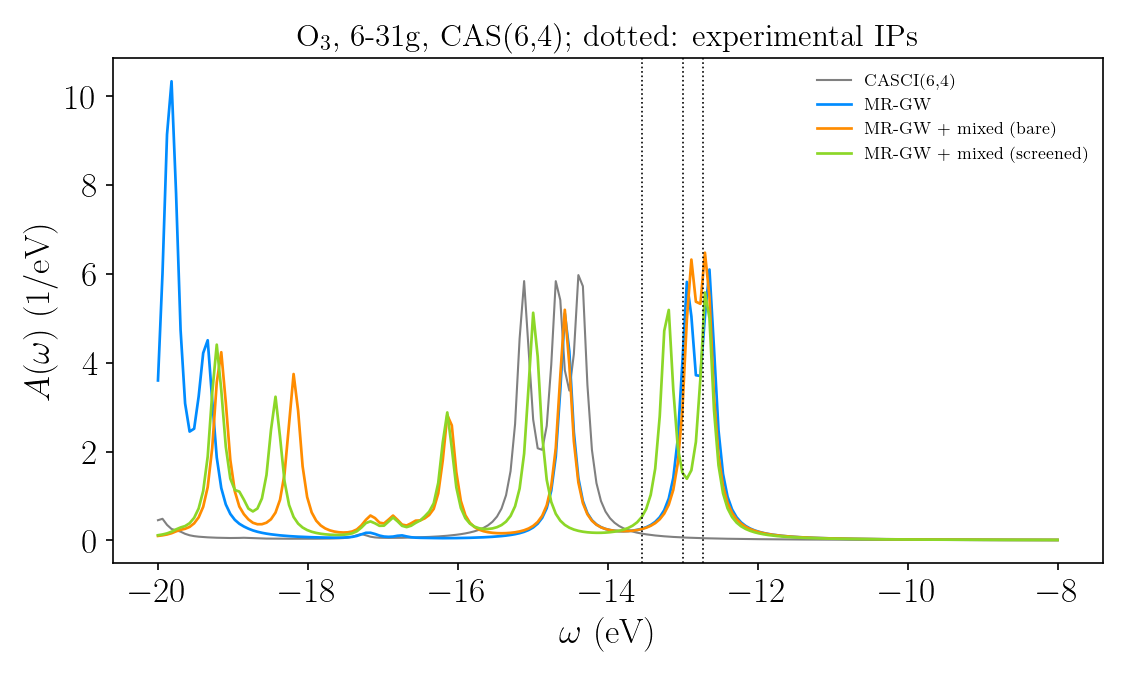
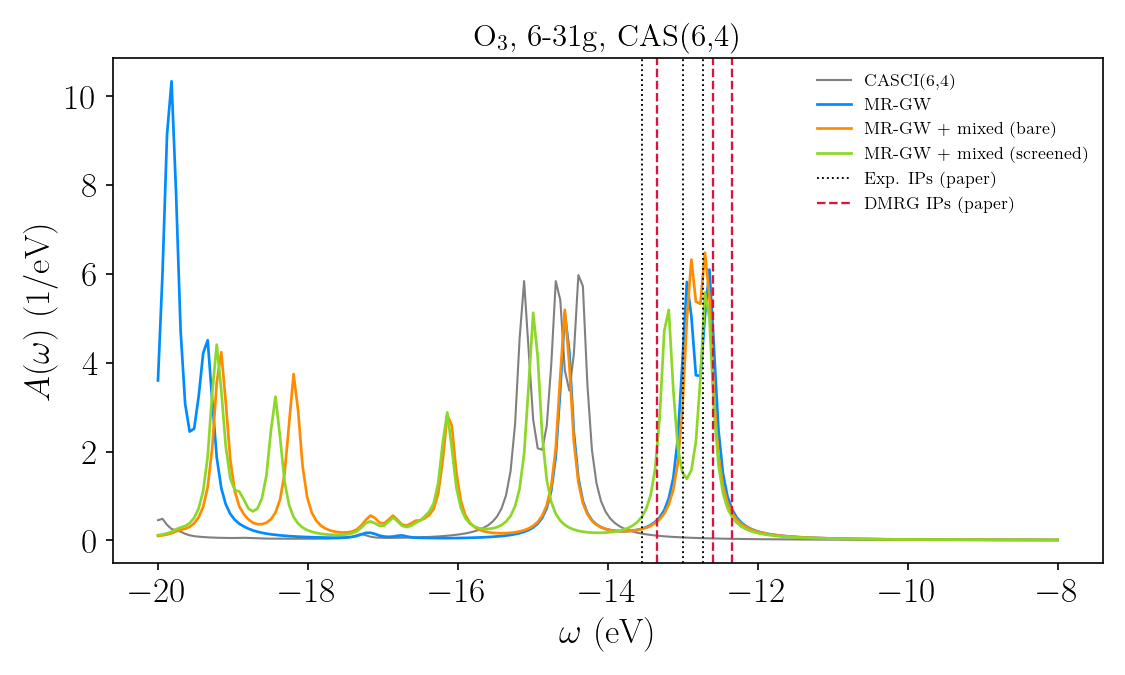
update numerical results

diff --git a/numerics/example_h4.py b/numerics/example_h4.py
@@ -4,19 +4,32 @@ Example: linear H4 (R = 1 Angstrom), CAS(2,2) with the CASSCF HOMO and LUMO,
 the setting of Fig. 6 in Wang, Fang, and Li (arXiv:2604.16013).
 
 The script builds the common Hermitian matrix of Eq. (7) in
-notes/comparison.tex in four variants
+notes/comparison.tex in eight variants
 
-    CAS (Dyall reference)      : K_B = 0, no bath
-    MR-GW                      : K_B = 0, MR-GW bath          (Wang-Fang-Li)
-    MR-GW + mixed (bare)       : K_B with I = vbar_R,  bath
-    MR-GW + mixed (screened)   : K_B with I = v_R - W_D(0)^x, bath   (Objective II)
+    CAS (Dyall reference)              : K_B = 0, no bath
+    MR-GW                              : K_B = 0, MR-GW bath          (Wang-Fang-Li)
+    MR-GW + mixed (bare)               : K_B with I = vbar_R,  bath
+    MR-GW + mixed (screened)           : K_B with I = v_R - W_D(0)^x, bath   (Objective II)
+    EKT/ERPA MR-GW                     : EKT charged poles (primary manifold {a_x}, {a_x^+}),
+                                         ERPA active response, K_B = 0
+    EKT/ERPA MR-GW + mixed (screened)
+    EKT(2h1p)/ERPA MR-GW               : charged manifold extended by 2h1p / 2p1h operators
+    EKT(2h1p)/ERPA MR-GW + mixed (screened)
 
 solves for the principal ionization and attachment roots with a Davidson
 solver using root following, compares with dense diagonalization and with
 full CI, and plots the spectral functions (including the non-PSD Hall-form
 insertion of the mixed blocks for comparison).
 
-Run:  python example_h4.py [--basis sto-6g] [--r 1.0] [--eta 0.1] [--no-plot]
+For CAS(2,2) the primary EKT manifold spans the whole N+-1 space of the
+active Hamiltonian, so the EKT variants coincide with the exact-reference
+ones up to the ERPA response.  A setting in which the primary manifold is
+incomplete while the extended one is complete is
+
+    python example_h4.py --basis 6-31g --ncas 4 --nelecas 4
+
+Run:  python example_h4.py [--basis sto-6g] [--r 1.0] [--ncas 2] [--nelecas 2]
+                           [--eta 0.1] [--no-plot] [--no-fci]
 """
 import os
 import sys
@@ -67,9 +80,14 @@ def main():
     ref = DyallReference(mc)
     rpa = MRRPA(ref)
 
-    # EKT charged poles + ERPA active response instead of the exact CAS states
+    # EKT charged poles + ERPA active response instead of the exact CAS states,
+    # with the primary ({a_x}, {a_x^+}) and the extended (1h+2h1p, 1p+2p1h) manifold
+    print()
     ekt = EKTERPAReference(ref)
     rpa_ekt = MRRPA(ekt)
+    print()
+    ekt2 = EKTERPAReference(ref, charged_manifold='extended')
+    rpa_ekt2 = MRRPA(ekt2)
 
     variants = [
         ('CAS (Dyall reference)', HermitianGF(ref, None, mixed='none', bath=False)),
@@ -78,23 +96,33 @@ def main():
         ('MR-GW + mixed (screened)', HermitianGF(ref, rpa, mixed='screened', bath=True)),
         ('EKT/ERPA MR-GW', HermitianGF(ekt, rpa_ekt, mixed='none', bath=True)),
         ('EKT/ERPA MR-GW + mixed (screened)', HermitianGF(ekt, rpa_ekt, mixed='screened', bath=True)),
+        ('EKT(2h1p)/ERPA MR-GW', HermitianGF(ekt2, rpa_ekt2, mixed='none', bath=True)),
+        ('EKT(2h1p)/ERPA MR-GW + mixed (screened)',
+         HermitianGF(ekt2, rpa_ekt2, mixed='screened', bath=True)),
     ]
     fci = None if args.no_fci else FCIReference(ref)
 
     # ------------------------------------------------------------------
     # Davidson with root following
     # ------------------------------------------------------------------
-    homo = ref.act_so[0]           # lowest active spatial orbital, alpha spin
-    lumo = ref.act_so[-2]          # highest active spatial orbital, alpha spin
-    core = ref.core_so[0]
-    virt = ref.virt_so[0]
-    targets = [('principal IP  (HOMO-like, removal)', lambda g: g.orbital_guess(homo, 'remove')),
-               ('principal EA  (LUMO-like, attachment)', lambda g: g.orbital_guess(lumo, 'attach')),
-               (f'core IP       ({ref.so_label(core)})', lambda g: g.unit_vector(g.index_inactive(core))),
-               (f'virtual EA    ({ref.so_label(virt)})', lambda g: g.unit_vector(g.index_inactive(virt)))]
+    nocc_total = mol.nelectron // 2
+    homo = 2 * (nocc_total - 1)    # HOMO spatial orbital, alpha spin
+    lumo = 2 * nocc_total          # LUMO spatial orbital, alpha spin
+    targets = [(f'principal IP  ({ref.so_label(homo)}, removal)',
+                lambda g: g.orbital_guess(homo, 'remove')),
+               (f'principal EA  ({ref.so_label(lumo)}, attachment)',
+                lambda g: g.orbital_guess(lumo, 'attach'))]
+    if ref.core_so:
+        core = ref.core_so[0]
+        targets.append((f'core IP       ({ref.so_label(core)})',
+                        lambda g: g.unit_vector(g.index_inactive(core))))
+    if ref.virt_so:
+        virt = ref.virt_so[0]
+        targets.append((f'virtual EA    ({ref.so_label(virt)})',
+                        lambda g: g.unit_vector(g.index_inactive(virt))))
 
     print()
-    print("Davidson root following (targets: HOMO removal, LUMO attachment, core removal, virtual attachment)")
+    print("Davidson root following (targets: " + ", ".join(t[0].split('(')[0].strip() for t in targets) + ")")
     print("-" * 78)
     dav_results = {}
     for name, gf in variants:
@@ -113,13 +141,27 @@ def main():
         dav_results[name] = (theta, weights)
 
     print()
-    print("Active-space excitation energies entering the reference polarizability (eV)")
+    print("Active-space quantities entering the EKT/ERPA variants (eV)")
     print("-" * 78)
     om_exact, _ = ref.neutral_transition_densities()
-    print("  exact CAS states : " + ", ".join(f"{w * EV:7.3f}" for w in np.sort(om_exact)))
-    print("  ERPA (singles)   : " + ", ".join(f"{w * EV:7.3f}" for w in np.sort(ekt.erpa_omega)))
-    print("  EKT charged poles: " + ", ".join(f"{k * EV:7.3f}" for k in np.sort(ekt.kappa))
-          + "   (exact: " + ", ".join(f"{k * EV:7.3f}" for k in np.sort(ref.kappa)) + ")")
+    nshow = 6
+    print("  neutral excitations, exact CAS states : "
+          + ", ".join(f"{w * EV:7.3f}" for w in np.sort(om_exact)[:nshow])
+          + (" ..." if om_exact.size > nshow else ""))
+    print("  neutral excitations, ERPA (singles)   : "
+          + ", ".join(f"{w * EV:7.3f}" for w in np.sort(ekt.erpa_omega)[:nshow])
+          + (" ..." if ekt.erpa_omega.size > nshow else ""))
+    for label, r in (('exact CAS states  ', ref), ('EKT, primary      ', ekt), ('EKT, 1h+2h1p      ', ekt2)):
+        rem = np.sort(-r.kappa[r.pole_sign < 0])[:nshow]
+        att = np.sort(r.kappa[r.pole_sign > 0])[:nshow]
+        print(f"  charged poles, {label}: IPs " + ", ".join(f"{k * EV:7.3f}" for k in rem)
+              + "   EAs " + ", ".join(f"{k * EV:7.3f}" for k in att))
+    for label, r in (('primary', ekt), ('extended', ekt2)):
+        ranks = ", ".join(f"{sec} {'att' if sg > 0 else 'rem'}: {rk}/{dim}"
+                          for (sg, sec), (rk, m, dim) in r.charged_rank.items())
+        dev = r.charged_pole_deviation()
+        print(f"  {label:8s} manifold rank / sector dimension: {ranks}"
+              + (f"; complete, max |kappa - kappa_exact| = {dev:.1e} Ha" if dev is not None else "; incomplete"))
 
     # ------------------------------------------------------------------
     # pole tables
@@ -177,7 +219,7 @@ def main():
     allK = np.concatenate([g.poles()[0] for _, g in variants[:2]])
     wmin, wmax = -30.0, 25.0
     omegas = np.linspace(wmin, wmax, 2200) / EV
-    fig, axes = plt.subplots(len(variants) + 1, 1, figsize=(7.5, 2.1 * (len(variants) + 1)),
+    fig, axes = plt.subplots(len(variants) + 1, 1, figsize=(7.5, 1.9 * (len(variants) + 1)),
                              sharex=True)
     for ax, (name, gf) in zip(axes, variants):
         A = gf.spectral_function(omegas, eta)
@@ -199,10 +241,11 @@ def main():
     ax.legend(loc='upper left', fontsize=8, frameon=False)
     ax.set_xlabel(r'$\omega$ (eV)')
     fig.suptitle(f'Linear H$_4$, R = {args.r} $\\AA$, {args.basis}, CAS({args.nelecas},{args.ncas}), '
-                 f'$\\eta$ = {args.eta} eV')
-    fig.tight_layout()
+                 f'$\\eta$ = {args.eta} eV', y=0.995)
+    fig.tight_layout(rect=[0, 0, 1, 0.985])
     fname = os.path.join(os.path.dirname(os.path.abspath(__file__)),
-                         f"h4_{args.basis.replace('*', 's')}_spectral_functions.png")
+                         f"h4_{args.basis.replace('*', 's')}_cas{args.nelecas}_{args.ncas}"
+                         "_spectral_functions.png")
     fig.savefig(fname, dpi=150)
     print(f"\nspectral functions written to {fname}")
     if A_hall.min() < -1e-6:

diff --git a/numerics/check_ozone.py b/numerics/check_ozone.py
@@ -244,16 +244,21 @@ def main():
     gf_cas = HermitianGF(ref, None, mixed='none', bath=False)
     ax.plot(omegas * EV, gf_cas.spectral_function(omegas, eta) / EV, color='gray', lw=1.0,
             label=f'CASCI{cas_label}')
-    for name, *_ in variants:
+    for name, reference, *_ in variants:
+        if reference is not ref:          # exact-reference variants only
+            continue
         t3 = time.time()
         A = gfs[name].spectral_function_resolvent(omegas, eta)
         print(f"spectral function {name}: {time.time() - t3:.1f} s")
         ax.plot(omegas * EV, A / EV, lw=1.3, label=name)
     for k, nm in enumerate(STATES):
-        ax.axvline(-WFL_IP['Exp.'][k], color='k', ls=':', lw=0.8)
+        ax.axvline(-WFL_IP['Exp.'][k], color='k', ls=':', lw=0.9)
+        ax.axvline(-WFL_IP['DMRG'][k], color='crimson', ls='--', lw=1.1)
+    ax.plot([], [], color='k', ls=':', lw=0.9, label='Exp. IPs (paper)')
+    ax.plot([], [], color='crimson', ls='--', lw=1.1, label='DMRG IPs (paper)')
     ax.set_xlabel(r'$\omega$ (eV)')
     ax.set_ylabel(r'$A(\omega)$ (1/eV)')
-    ax.set_title(f'O$_3$, {args.basis}, CAS{cas_label}; dotted: experimental IPs')
+    ax.set_title(f'O$_3$, {args.basis}, CAS{cas_label}')
     ax.legend(fontsize=8, frameon=False)
     fig.tight_layout()
     fname = os.path.join(os.path.dirname(os.path.abspath(__file__)),

diff --git a/notes/comparison.tex b/notes/comparison.tex
@@ -684,7 +684,13 @@ For H$_4$/CAS(2,2) the primary manifold already spans the whole $N_a\pm1$
 space, so the EKT poles are exact; the ERPA reproduces the two single
 excitations exactly and misses the double one, and the resulting \MRGW{}
 ionization and attachment energies agree with those of the exact reference
-to 1~meV.  For ozone the picture is different (Table~\ref{tab:ekt-o3}).
+to 1~meV.  H$_4$ in 6-31G with CAS(4,4) is the smallest setting in which
+the primary manifold is incomplete (rank 4 of 24 per sector) while the
+extended one is complete: there the primary-manifold variant places the
+principal ionization energy at 12.59~eV instead of the \MRGW{} value of
+12.06~eV and produces a spurious intense removal peak at 18.2~eV, whereas
+the extended manifold reproduces the \MRGW{} principal peaks to 1~meV.  For
+ozone the picture is similar (Table~\ref{tab:ekt-o3}).
 The ERPA excitation energies of the active space are essentially exact (the
 lowest four agree with the CASCI values to 1~meV), but the primary-manifold
 EKT cation energies lie 1--2~eV above the CASCI cation energies, because

diff --git a/numerics/README.md b/numerics/README.md
@@ -45,6 +45,7 @@ machine the miniforge base environment has all of them:
 ~/miniforge3/bin/python run_checks.py
 ~/miniforge3/bin/python example_h4.py            # STO-6G, R = 1.0 A, CAS(2,2)
 ~/miniforge3/bin/python example_h4.py --basis 6-31g
+~/miniforge3/bin/python example_h4.py --basis 6-31g --ncas 4 --nelecas 4   # primary EKT manifold incomplete
 ```
 
 ## Conventions
@@ -89,8 +90,9 @@ Roots obtained by Davidson root following (identical to the dense max-overlap ei
 All Hermitian variants have positive spectral weights and `M0 = 1`; the Hall-form
 insertion of the first-order mixed blocks (last panel of the figure) reaches
 `A(omega) = -4.3 1/eV`, the non-PSD behaviour reported in Fig. 6 of Wang, Fang, and Li.
-`h4_sto-6g_spectral_functions.png` and `h4_6-31g_spectral_functions.png` are the plots
-produced by `example_h4.py` (the 6-31G run takes about 10 s).
+`h4_sto-6g_cas2_2_spectral_functions.png`, `h4_6-31g_cas2_2_spectral_functions.png` and
+`h4_6-31g_cas4_4_spectral_functions.png` are the plots produced by `example_h4.py` (one panel per
+variant, including the EKT/ERPA ones; the 6-31G runs take about 10 s).
 
 ## Ozone check against Wang, Fang, and Li (`check_ozone.py`)
 
@@ -100,7 +102,8 @@ theta = 116.8 deg, 6-31G, CASCI with RHF orbitals) and compares with their Table
 ```
 ~/miniforge3/bin/python check_ozone.py --cas 6,4          # 2 s, bath of 4.4e4 poles
 ~/miniforge3/bin/python check_ozone.py --cas 8,5          # 5 s, bath of 1.0e5 poles
-~/miniforge3/bin/python check_ozone.py --cas 6,4 --plot   # + spectral functions, ~30 s
+~/miniforge3/bin/python check_ozone.py --cas 6,4 --plot   # + spectral functions (exact-reference variants,
+                                                          #   experimental and DMRG IPs as reference lines), ~30 s
 ```
 
 The RHF orbital energies agree with their Table S3 to 1e-5 Ha (same C2v labels), the
@@ -156,7 +159,22 @@ the paper's own dense pilot implementation).
 
 MR-RPA screening of the residual interaction, the MR-GW bath and the mixed couplings are then
 built exactly as before (`MRRPA(ekt)`, `HermitianGF(ekt, ...)`).  The variant appears in
-`run_checks.py` (14 additional checks), `example_h4.py` and `check_ozone.py`.
+`run_checks.py` (14 additional checks), `example_h4.py` (four EKT/ERPA panels) and `check_ozone.py`.
+
+H4 in 6-31G with CAS(4,4) (`example_h4.py --basis 6-31g --ncas 4 --nelecas 4`) is the smallest
+setting in which the primary manifold is incomplete (rank 4 of 24 per sector) while the extended
+one is complete (24 of 24):
+
+| H4, 6-31G, CAS(4,4), eV | principal IP | principal EA | virtual EA |
+|---|---|---|---|
+| MR-GW | 12.058 | 3.416 | 26.432 |
+| EKT/ERPA MR-GW (primary) | 12.587 | 3.756 | 26.632 |
+| EKT(2h1p)/ERPA MR-GW | 12.057 | 3.417 | 26.489 |
+| full CI | 11.999 | 2.993 | 22.500 |
+
+The primary manifold also produces a spurious intense removal peak at 18.2 eV (the exact
+reference has a 0.76-weight peak at 16.7 eV); the extended manifold removes both defects, and the
+residual differences to MR-GW (1 meV for the principal peaks) come from the singles ERPA response.
 
 Extended charged manifold (`EKTERPAReference(ref, charged_manifold='extended')`).  The
 primary operators are supplemented by the 2h1p operators `a_y^+ a_w a_z` (removal) and the
